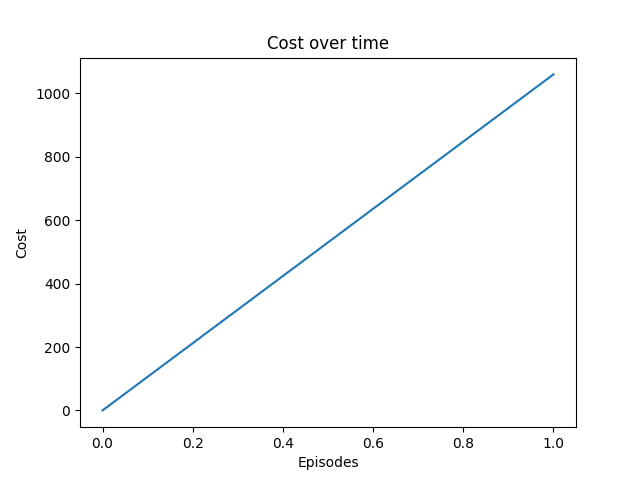
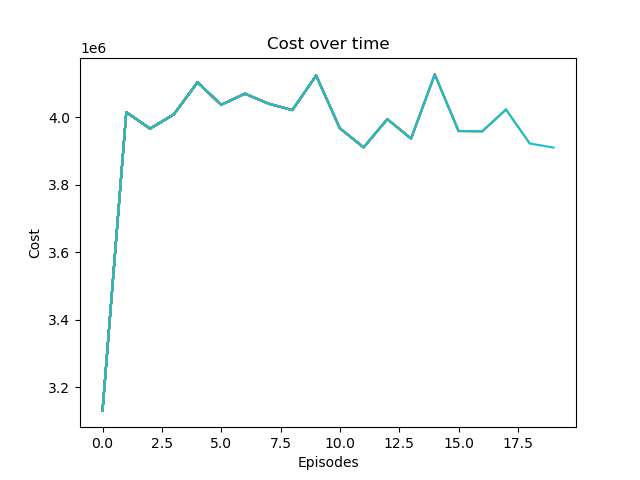
pytorch code WIP

diff --git a/src/fat_tree.py b/src/fat_tree.py
@@ -9,6 +9,7 @@ from .agg_switch import AggregateSwitch
 from .edge_switch import EdgeSwitch
 from .phys_machine import PhysicalMachine
 from .vm_pair import VmPair
+from .ac_migrate_pytorch import Actor, Critic
 
 
 class FatTree:
@@ -22,7 +23,7 @@ class FatTree:
         self.migration_coefficient= 50
 
         self.discount_factor = 0.5
-        self.episodes = 100
+        self.episodes = 20
         self.temperature = 10000
         self.epsilon = 0.01
         self.q_table = {}
@@ -397,82 +398,72 @@ class FatTree:
             
 
     def ac_migration(self):
-        #use Megh state projection
-        self.init_ac()
-        #there are d basis vectors
-        #d = self.vm_pair_count * 2 * self.pm_count
-        #initialize policy to equally do all migrations
-        #self.policy = {vm: {pm: 1 / self.pm_count for pm in range(self.first_pm, self.last_pm + 1)} for vm in self.vm_pairs}
-        
-        self.episode_costs.append(self.calc_total_cost())
-        for i in range(self.episodes):
-            for i in range(self.first_pm, self.last_pm + 1):
-                self.tree[i].capacity_left = self.pm_capacity
+        actor = Actor(input_dim=2, hidden_dim=64, output_dim=self.pm_count)
+        critic = Critic(input_dim=2, hidden_dim=64)
+        actor_optimizer = torch.optim.Adam(actor.parameters(), lr=0.01)
+        critic_optimizer = torch.optim.Adam(critic.parameters(), lr=0.01)
+
+        for episode in range(self.episodes):
             self.randomize_traffic()
-            current_state = self.get_state()
-            actions={}
-            for i in range(self.vm_pair_count):
-                actions[i * 2] = self.select_action(i * 2)  # Ingress VM
-                actions[i * 2 + 1] = self.select_action(i * 2 + 1)  # Egress VM 
-                
-            #print the actions
-            #print(actions)
-            cost, next_phi = self.simulate_action(actions)
-            phi = self.get_phi(actions)
-
-            self.C+=cost
-            #print(f"Shape of B: {self.B.shape}")
-            #print(f"Shape of phi: {phi.shape}")
-            #print(f"Shape of next_phi: {next_phi.shape}")
-            #print(f"Shape of phi - self.discount_factor * next_phi: {(phi - self.discount_factor * next_phi).shape}")
-            #print(f"Shape of (phi - self.discount_factor * next_phi).T: {(phi - self.discount_factor * next_phi).T.shape}")
-            #self.T = self.T + np.outer(phi, phi - self.discount_factor * next_phi)
-            #self.B+=np.outer(phi, (phi - self.discount_factor * next_phi))
-            denom = 1+ (phi - self.discount_factor * next_phi).T @self.B @ phi
-            numer = self.B @ phi @(phi - self.discount_factor * next_phi).T @ self.B
-            self.B = self.B - numer/denom
-
-            self.z += phi * cost
-            #print(self.z)
-
-            #self.theta = self.B + self.z
-            self.theta = self.B @ self.z
-
-            #print(phi)
-            #print(self.theta)
-            self.policy_calculator(phi, self.theta)
-            #finally,update the vm locations, but calculate migration cost before doing so
+            for pm in range(self.first_pm, self.last_pm+1):
+                self.tree[pm].capacity_left = self.pm_capacity
+            
             episode_cost = 0
-            #calculate the cost migration
-            for i in range(self.vm_pair_count):
-                episode_cost+= self.distance(self.vm_pairs[i].first_vm_location, actions[i*2], True) * self.migration_coefficient
-                episode_cost+= self.distance(self.vm_pairs[i].second_vm_location, actions[i*2+1], True) * self.migration_coefficient
 
-            #update the vm locations
-            for i in range(self.vm_pair_count):
-                self.vm_pairs[i].first_vm_location = actions[i*2]
-                self.vm_pairs[i].second_vm_location = actions[i*2+1]
-            
-            episode_cost+= self.calc_total_cost()
-            self.episode_costs.append(episode_cost)
-            #plot the episodes costs over time
+            sorted_pairs = self.get_sorted_pairs()
+            vm_indices_sorted = [np.where(self.vm_pairs == p)[0][0] for p in sorted_pairs]
+
+            for vm_i in range(self.vm_pair_count*2):
+                is_ingress = vm_i % 2 == 0
+                pair_i = vm_i // 2
+                curr_location = sorted_pairs[pair_i].first_vm_location if is_ingress else sorted_pairs[pair_i].second_vm_location
+                state = torch.tensor([vm_i, int(is_ingress)], dtype=torch.float32)
+                
+                #This uses OLD locations, not locations for this episode
+                #Get available PMs for actions
+                available_pms = [pm for pm in range(self.first_pm, self.last_pm + 1)
+                             if self.tree[pm].capacity_left > 0 and (
+                                 pm != sorted_pairs[pair_i].second_vm_location if is_ingress else pm != sorted_pairs[pair_i].first_vm_location)]
+                
+                logits= actor(state)
+                pm_logits = logits[[pm-self.first_pm for pm in available_pms]]
+                pm_probs = torch.softmax(pm_logits, dim=0)
+                actioni = torch.multinomial(pm_probs, 1).item()
+                selected_pm = available_pms[actioni]
+
+                #compute migration reward
+                old_loc = curr_location
+                new_loc = selected_pm
+                if is_ingress:
+                    reward = -self.distance(old_loc, new_loc, True) * self.migration_coefficient + self.distance(old_loc, self.vnfs[0], True) * sorted_pairs[pair_i].traffic_rate
+                    sorted_pairs[pair_i].first_vm_location = selected_pm
+                else:
+                    reward = -self.distance(old_loc, new_loc, True) * self.migration_coefficient + self.distance(old_loc, self.vnfs[-1], True) * self.vm_pairs[pair_i].traffic_rate
+                    sorted_pairs[pair_i].second_vm_location = selected_pm
+                episode_cost += -reward
+
+                #value estimates for critic
+                value = critic(state)
+                next_state = torch.tensor([vm_i+1, int((vm_i)%2==0)], dtype=torch.float32)
+                next_value = critic(next_state) if vm_i+1 < self.vm_pair_count*2 else torch.tensor(0.0)
+                td_target = reward + self.discount_factor * next_value
+                td_error = td_target - value
+
+                #update critic
+                critic_loss = td_error.pow(2)
+                critic_optimizer.zero_grad()
+                critic_loss.backward()
+                critic_optimizer.step()
+
+                #now update actor
+                log_prob = torch.log(pm_probs[actioni])
+                actor_loss = -log_prob * td_error.detach()
+                actor_optimizer.zero_grad()
+                actor_loss.backward()
+                actor_optimizer.step()
+            self.episode_costs.append(-episode_cost)
+            print(f"Episode {episode} - Cost: {-episode_cost}")
             self.plot_episodes_cost()
-
-            #actions = self.select_action(current_state)
-            #self.basis_vectors = np.zeros((self.d,len(current_state)))
-
-            #for i in range(self.d):
-                #self.basis_vectors[i] = np.random.rand(len(current_state))
-            
-            #initialize Q table
-            
-
-            #for vm_pair in self.vm_pairs:
-            #    vm_actions = {}
-             #   for pm in range(self.first_pm, self.last_pm + 1):
-              #      vm_actions[pm] = 0  # Start with zero reward for all actions
-               # self.q_table[vm_pair] = vm_actions
-        #pass
 
     def plot_episodes_cost(self):
         #save the plot to the project root directory
@@ -484,46 +475,7 @@ class FatTree:
         
 
     def  policy_calculator(self, phi, theta):
-        self.temperature *= np.exp(-self.epsilon)
-
-        Q_values = []
-        
-        for action_idx in range(self.d):  # Iterate over all actions
-            # Extract the feature vector corresponding to this action
-            #print(len(theta))
-            
-            phi_action = np.zeros((self.d, 1))
-            #print(f"end_idx: {end_idx}")
-            #print(f"Shape of phi_action: {phi_action.shape}")
-            #print(f"Shape of phi_action.T: {phi_action.T.shape}")
-            #print(f"Shape of theta: {theta.shape}")
-            # Compute Q-value
-            phi_action[action_idx] = phi[action_idx]
-
-            Q_value = np.dot(phi_action.T, theta)
-            Q_values.append(Q_value)
-
-        Q_values = np.array(Q_values, dtype=float).flatten()
-        min_q = min(Q_values)
-        numer = -Q_values + min_q
-        policy_probs = np.exp( numer/ self.temperature)
-        #policy_probs /= np.sum(policy_probs)
-        for vm_i in range(self.vm_pair_count * 2):  # Iterate over VMs
-            pm_indices = list(range(vm_i * self.pm_count, (vm_i + 1) * self.pm_count))  # PM indices for this VM
-            total_prob = np.sum(policy_probs[pm_indices])
-    
-        if total_prob > 0:
-            policy_probs[pm_indices] /= total_prob  # Normalize within VM's PM choices
-        else:
-            print(f"Warning: No valid PMs for VM {vm_i}, assigning uniform distribution.")
-            policy_probs[pm_indices] = np.full(self.pm_count, 1 / self.pm_count)  # Assign uniform probabilities
-
-        #self.policy = {action_idx: policy_probs[action_idx] for action_idx in range(self.d)}  # Normalize
-        for vm_i in range(self.vm_pair_count * 2):  # Iterate over VMs
-            for pm_j, pm in enumerate(range(self.first_pm, self.last_pm + 1)):  # Iterate over PMs
-                self.policy[vm_i][pm] = policy_probs[vm_i * self.pm_count + pm_j] 
-        # Return updated policy as a dictionary or an array
-        #return policy
+        pass
 
     def get_state(self):
         #State 
@@ -560,12 +512,6 @@ class FatTree:
             #elif(i>curr_pair):
             #    actions.append((i,-1,-1))#not assigned a pm, not its turn yet
     
-    def do_next_state(self, action):
-        curr_pair, pm1, pm2 = action
-        self.vm_pairs[curr_pair].first_vm_location = pm1
-        self.vm_pairs[curr_pair].second_vm_location = pm2
-        self.tree[pm1].add_vm()
-        self.tree[pm2].add_vm()
 
     def get_reward(self, action):
         # Reward is the negative of the difference in communication cost 

diff --git a/src/ac_migrate_pytorch.py b/src/ac_migrate_pytorch.py
@@ -1,0 +1,29 @@
+import torch
+import torch.nn as nn
+import torch.nn.functional as F
+
+class Actor(nn.Module):
+    def __init__(self, input_dim, hidden_dim, output_dim):
+        super(Actor, self).__init__()
+        self.model = nn.Sequential(
+            nn.Linear(input_dim, hidden_dim),
+            nn.ReLU(),
+            nn.Linear(hidden_dim, output_dim),
+        )
+    
+    def forward(self, state):
+        x = self.model(state)
+        return x
+    
+class Critic(nn.Module):
+    def __init__(self, input_dim, hidden_dim):
+        super(Critic, self).__init__()
+        self.model = nn.Sequential(
+            nn.Linear(input_dim, hidden_dim),
+            nn.ReLU(),
+            nn.Linear(hidden_dim, 1), #single value, destination PM
+        )
+    
+    def forward(self, state):
+        x = self.model(state)
+        return x
